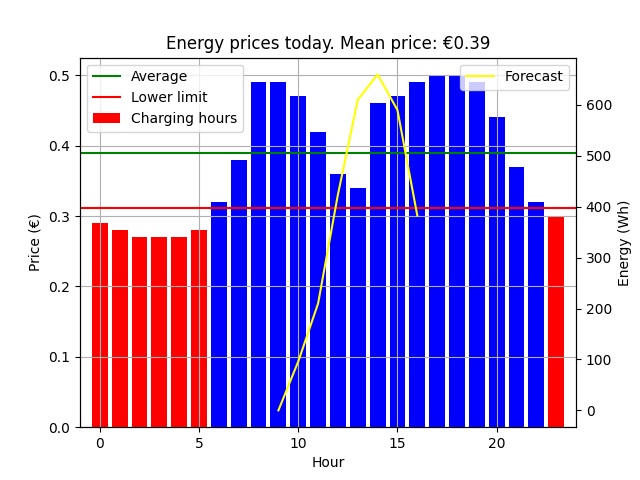
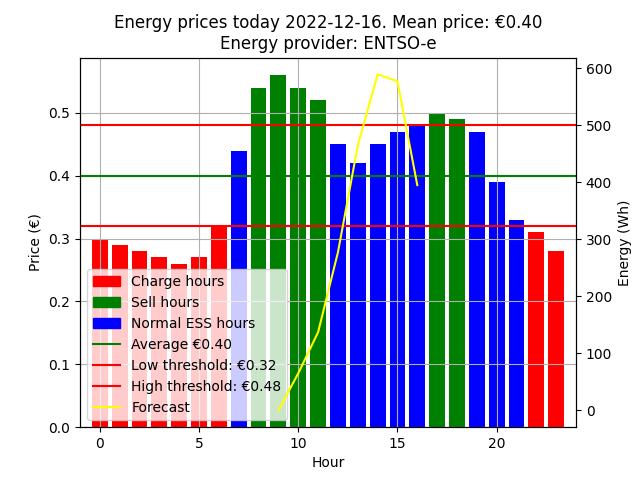
changed Plot.png and default settings

diff --git a/ESSController.py b/ESSController.py
@@ -45,7 +45,7 @@ password = base64.b64decode(password).decode("utf-8") # Retrieve password from s
 # 1 = Charge when current price < X average price
 # 2 = Charge when current price < X average price, discharge when price > X average price
 # 3 = Charge during cheapest x hours
-chargeMode = 3
+chargeMode = 1
 # Mode 1 settings
 lowThreshold = 0.8 # Constant to set the low threshold for charging
 # Mode 2 settings
@@ -54,7 +54,7 @@ highThreshold = 1.2 # Constant to set the high threshold for selling
 chargeHours = 3
 
 #PV Settings
-PV = 1 # if PV = 1, PV Aware charging is enabled. PV = 0 is off
+PV = 0 # if PV = 1, PV Aware charging is enabled. PV = 0 is off
 locLat = "51.33.36" # Latitude
 locLong = "5.5.60" # Longitude
 angle = 40 # Angle of your panels 0 (horizontal) … 90 (vertical)
